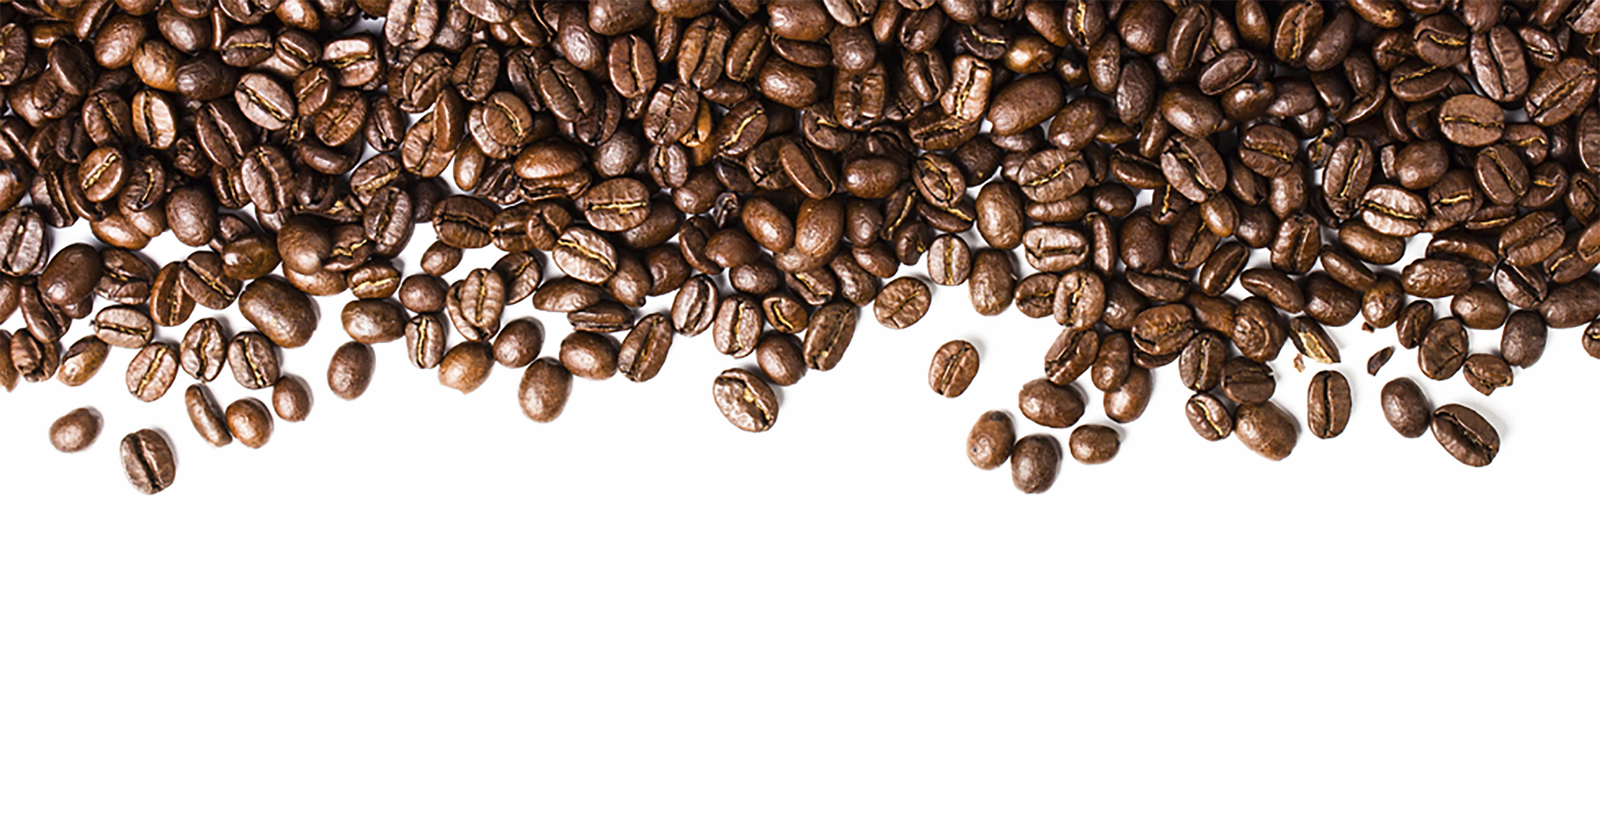
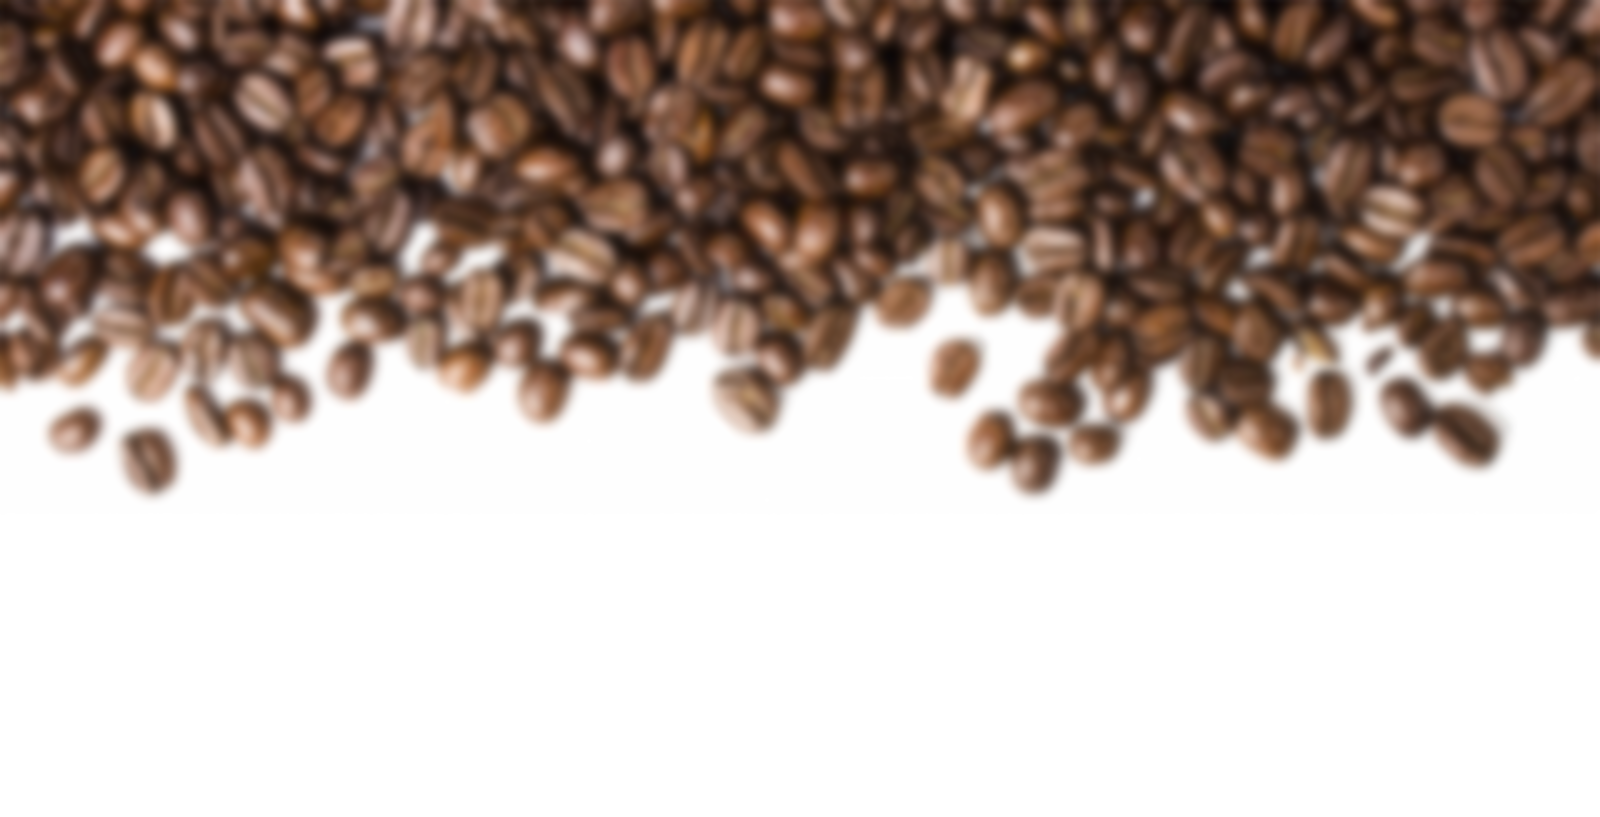
blurs bg

diff --git a/index.html b/index.html
@@ -39,7 +39,7 @@
 
 					<p>
 						Through self-studying, I've learned how to program with JavaScript. Currently, I'm updating what I know about the language
-						(It's a never-ending process) and canvas animations.
+					(It's a never-ending process) and VR experiences for the web (with A-Frame!).
 					</p>
 				</div>
 			</article>
